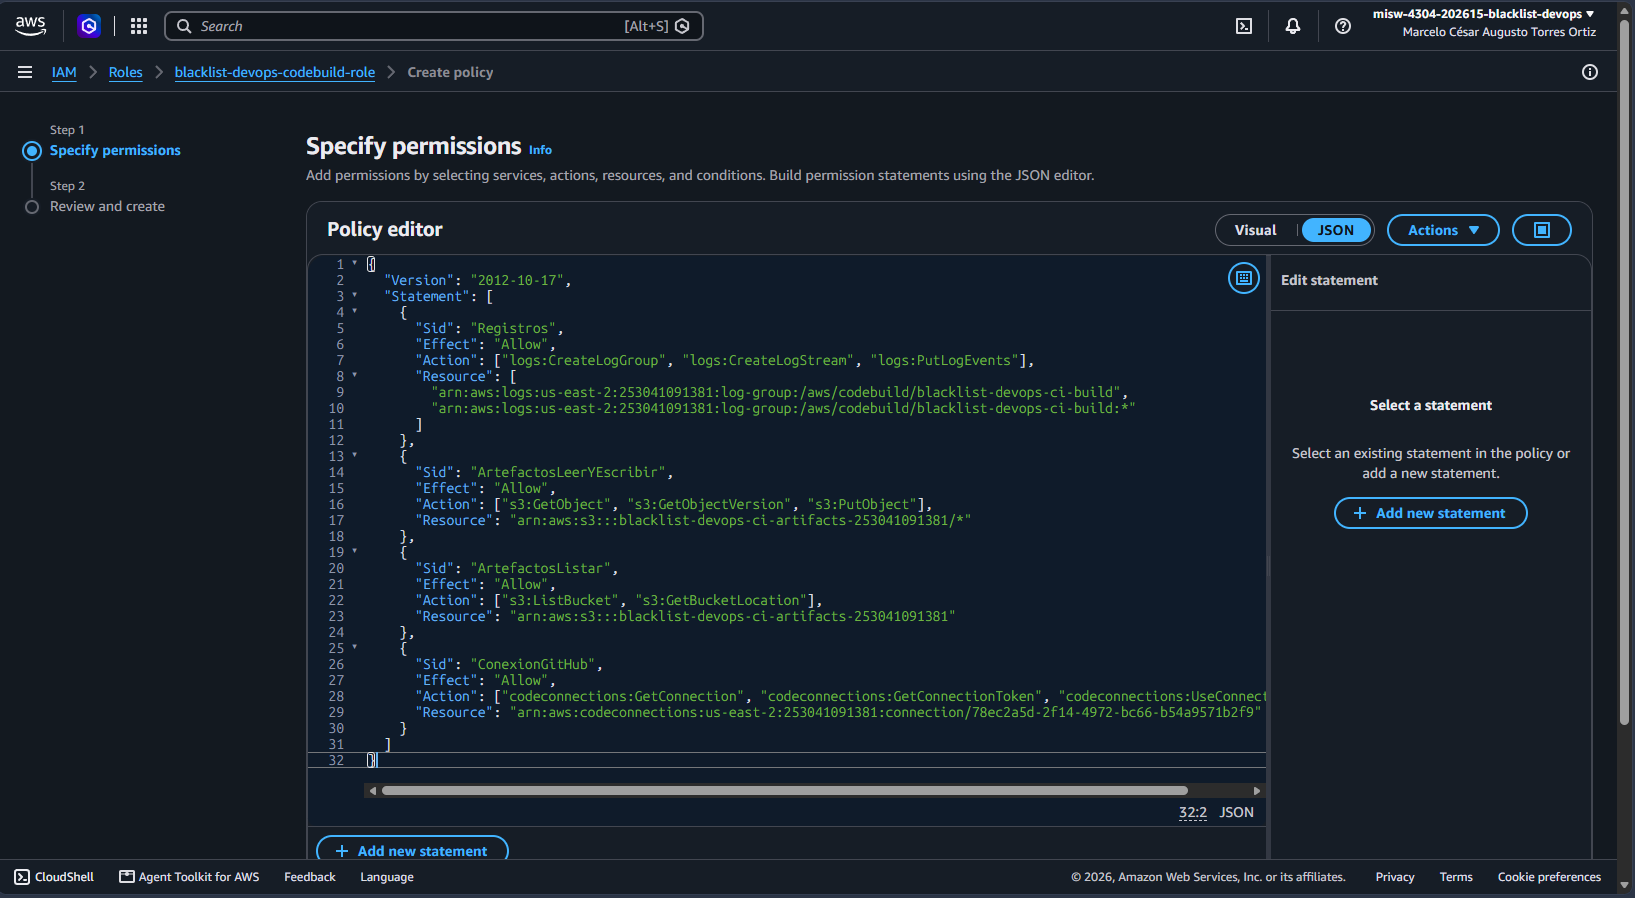
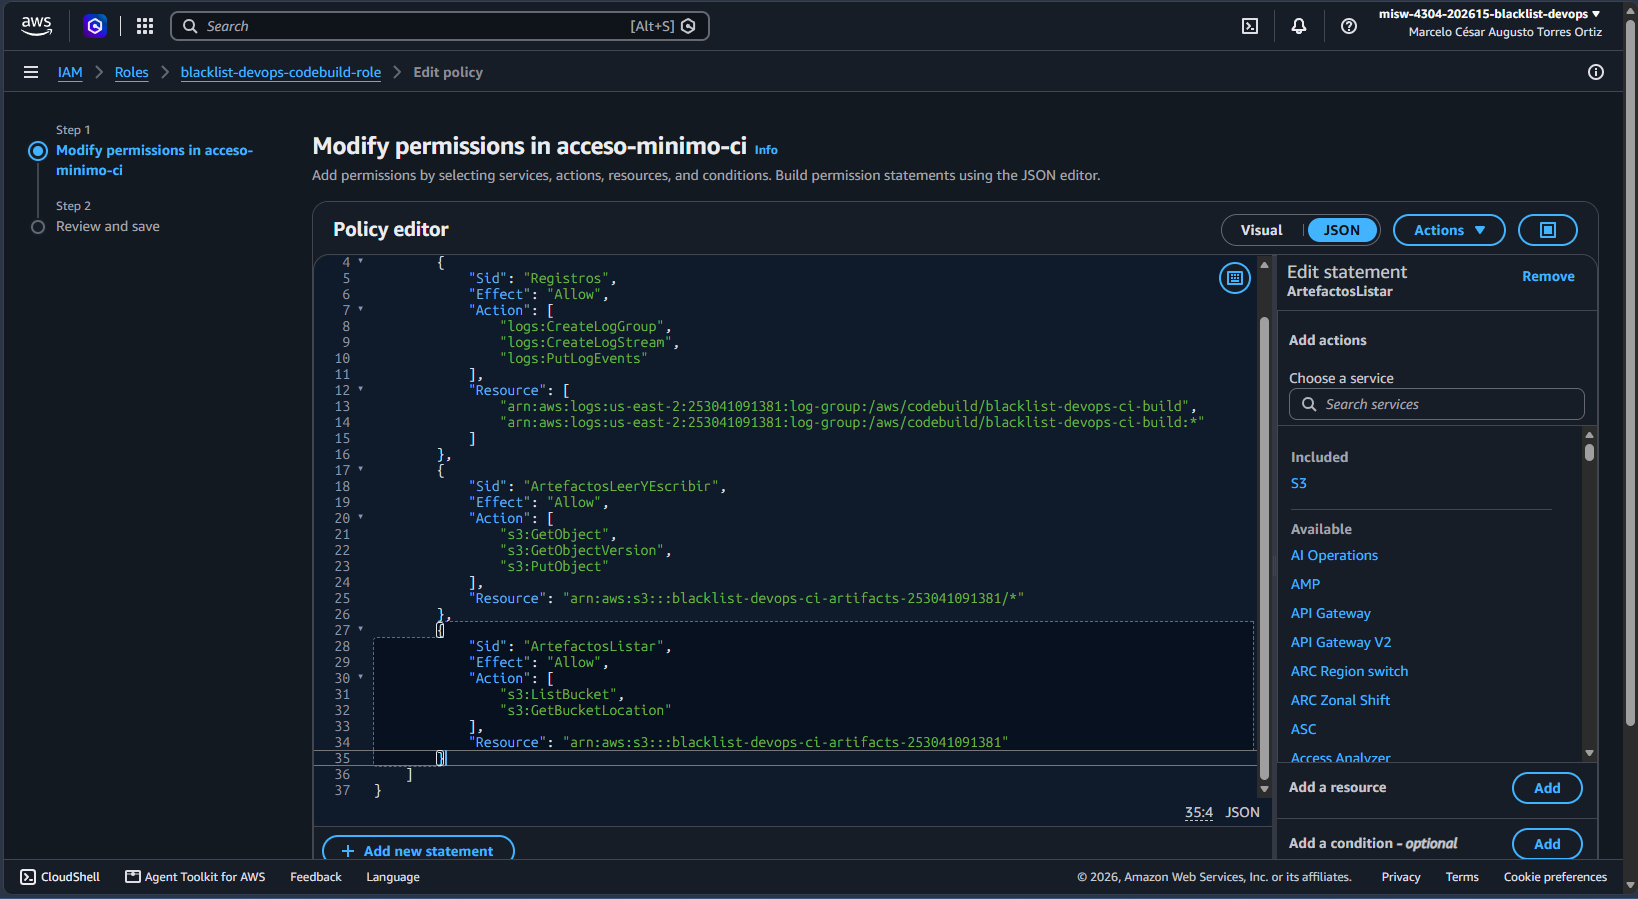
Quita el acceso a la conexión de GitHub del rol de CodeBuild (1.5)

diff --git a/docs/ci/1.5-roles-iam.md b/docs/ci/1.5-roles-iam.md
@@ -29,7 +29,7 @@ Los ARN no son secretos. Los usan el proyecto de CodeBuild (1.7, #99) y el pipel
 
 | Rol | Para qué | Qué puede hacer |
 |---|---|---|
-| CodeBuild | Ejecuta las fases de instalación y pruebas del `buildspec.yml` | Escribir registros en su grupo de CloudWatch; leer y escribir objetos del bucket de artefactos; usar la conexión de GitHub |
+| CodeBuild | Ejecuta las fases de instalación y pruebas del `buildspec.yml` | Escribir registros en su grupo de CloudWatch; leer y escribir objetos del bucket de artefactos |
 | CodePipeline | Entrega el código al build y lo lanza | Leer y escribir objetos del bucket de artefactos; usar la conexión de GitHub; iniciar y consultar el proyecto de CodeBuild |
 
 Ninguno de los dos roles tiene permisos de administrador ni acceso a otros recursos de la cuenta. No se
@@ -76,6 +76,8 @@ Rol de CodePipeline:
 
 Cada rol tiene una sola política en línea, `acceso-minimo-ci`. Las acciones se listan una por una y los
 recursos son los ARN exactos del proyecto: ninguna usa `*` como acción ni como recurso completo.
+El rol de CodeBuild tuvo inicialmente una sentencia sobre la conexión de GitHub; se quitó tras la revisión
+del PR #146 por no ser necesaria (ver la nota al final de la sección 4.1).
 
 ### 4.1 Rol de CodeBuild
 
@@ -84,7 +86,6 @@ recursos son los ARN exactos del proyecto: ninguna usa `*` como acción ni como 
 | `Registros` | `logs:CreateLogGroup`, `logs:CreateLogStream`, `logs:PutLogEvents` | Grupo `/aws/codebuild/blacklist-devops-ci-build` y sus flujos |
 | `ArtefactosLeerYEscribir` | `s3:GetObject`, `s3:GetObjectVersion`, `s3:PutObject` | Objetos del bucket `blacklist-devops-ci-artifacts-253041091381` |
 | `ArtefactosListar` | `s3:ListBucket`, `s3:GetBucketLocation` | El bucket `blacklist-devops-ci-artifacts-253041091381` |
-| `ConexionGitHub` | `codeconnections:GetConnection`, `codeconnections:GetConnectionToken`, `codeconnections:UseConnection` | Conexión `blacklist-devops-github` |
 
 ```json
 {
@@ -110,16 +111,15 @@ recursos son los ARN exactos del proyecto: ninguna usa `*` como acción ni como 
       "Effect": "Allow",
       "Action": ["s3:ListBucket", "s3:GetBucketLocation"],
       "Resource": "arn:aws:s3:::blacklist-devops-ci-artifacts-253041091381"
-    },
-    {
-      "Sid": "ConexionGitHub",
-      "Effect": "Allow",
-      "Action": ["codeconnections:GetConnection", "codeconnections:GetConnectionToken", "codeconnections:UseConnection"],
-      "Resource": "arn:aws:codeconnections:us-east-2:253041091381:connection/78ec2a5d-2f14-4972-bc66-b54a9571b2f9"
     }
   ]
 }
 ```
+
+El rol de CodeBuild **no** tiene permisos sobre la conexión de GitHub: el pipeline le entrega el código
+como un ZIP sin `.git` (decisión de #94), así que no necesita clonar el repositorio. Si más adelante se
+usa el clonado completo, se agrega solo `codeconnections:UseConnection` sobre la conexión
+`blacklist-devops-github`.
 
 ### 4.2 Rol de CodePipeline
 
@@ -212,7 +212,7 @@ documentan como referencia y no se ejecutaron. Los roles los crea la persona pro
 ```bash
 aws iam create-role \
   --role-name blacklist-devops-codebuild-role \
-  --description "Rol de servicio de CodeBuild para el build de integracion continua" \
+  --description "Rol de servicio de CodeBuild para el build de integración continua" \
   --assume-role-policy-document file://trust-codebuild.json
 
 aws iam put-role-policy \
@@ -222,7 +222,7 @@ aws iam put-role-policy \
 
 aws iam create-role \
   --role-name blacklist-devops-codepipeline-role \
-  --description "Rol de servicio de CodePipeline para el pipeline de integracion continua" \
+  --description "Rol de servicio de CodePipeline para el pipeline de integración continua" \
   --assume-role-policy-document file://trust-codepipeline.json
 
 aws iam put-role-policy \
@@ -235,9 +235,12 @@ Los archivos `trust-*.json` y `policy-*.json` contienen los JSON de las seccione
 
 ## 7. Notas
 
-- **Descripción sin tilde:** la descripción del rol de CodePipeline perdió una letra con tilde al
-  escribirla en la consola ("integracin"). Es solo texto descriptivo del rol; no afecta a los permisos
-  ni al funcionamiento. Se puede corregir desde *Edit* en el resumen del rol si el equipo lo prefiere.
+- **Descripciones:** las descripciones de ambos roles se corrigieron en la consola para que lleven la tilde
+  de "integración" (al crearlos quedaron como "integracion" e "integracin"). Es solo texto descriptivo; las capturas de
+  la creación del rol muestran el texto original.
+- **Revisión del PR #146:** se quitó del rol de CodeBuild la sentencia `ConexionGitHub` (propuesta de la
+  revisión), porque el código llega al build como ZIP desde CodePipeline y no se usa la conexión. El rol
+  de CodePipeline conserva `codeconnections:UseConnection`, que sí necesita para leer el repositorio.
 - **Proyecto aún inexistente:** las políticas apuntan a `blacklist-devops-ci-build`, que se crea en la
   tarea 1.7 (#99). Si el proyecto se crea con otro nombre, hay que actualizar las dos políticas.
 - **Permisos del rol de CodePipeline:** incluye `s3:GetBucketVersioning` porque CodePipeline lo consulta
@@ -251,7 +254,7 @@ Los archivos `trust-*.json` y `policy-*.json` contienen los JSON de las seccione
 | Criterio de la tarea 1.5 (#97) | Evidencia |
 |---|---|
 | Rol de CodeBuild con relación de confianza para CodeBuild | Sección 3; capturas `1.5-codebuild-confianza.png` y `1.5-codebuild-rol.png` |
-| Política mínima de CodeBuild: registros, bucket de 1.4 y conexión de GitHub | Sección 4.1; captura `1.5-codebuild-politica.png` |
+| Política mínima de CodeBuild: registros y bucket de 1.4 (sin conexión de GitHub, ver sección 4.1) | Sección 4.1; captura `1.5-codebuild-politica.png` |
 | Rol de CodePipeline: conexión, bucket y lanzar el proyecto, sin administrador | Sección 4.2; captura `1.5-codepipeline-politica.png` |
 | ARN de cada rol anotado | Sección 1 |
 | Los roles solo acceden al bucket del proyecto | Secciones 4.1 y 4.2: recursos limitados a un bucket, una conexión, un proyecto y un grupo de registros |
